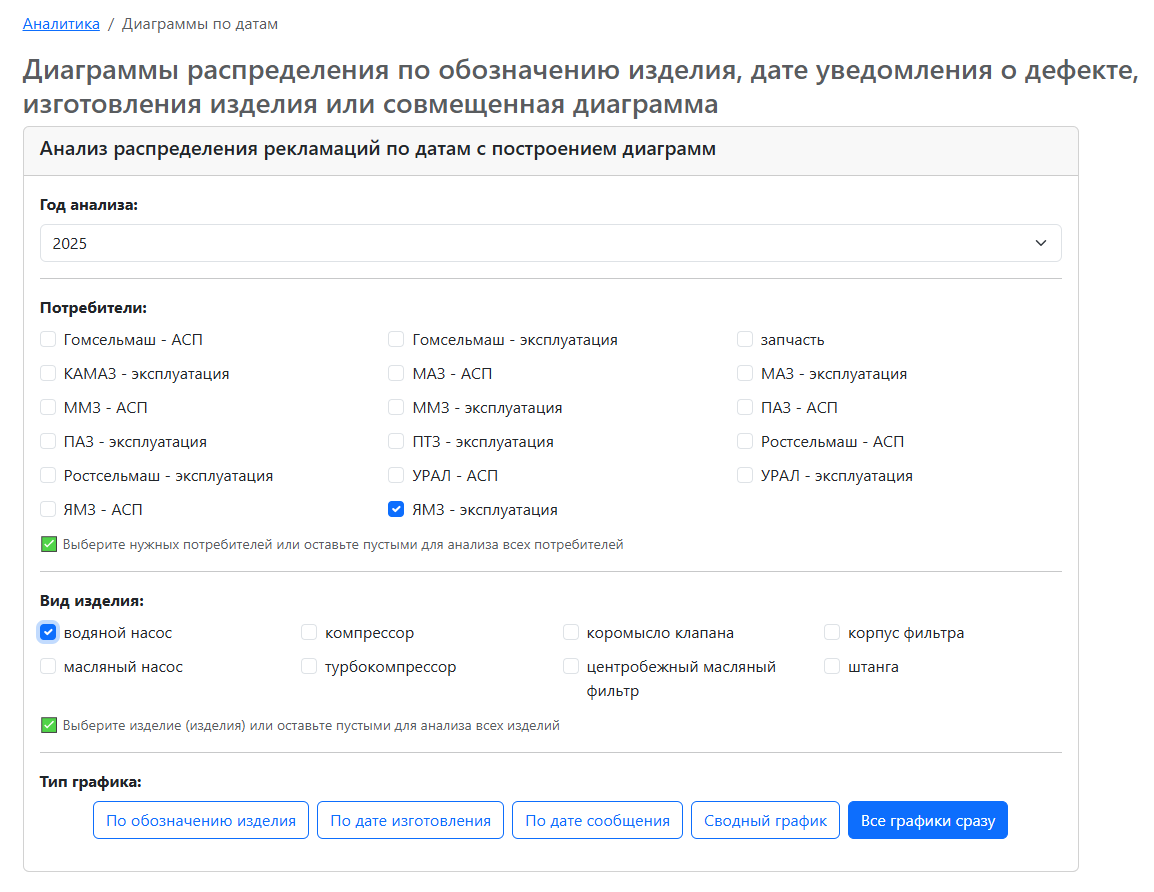
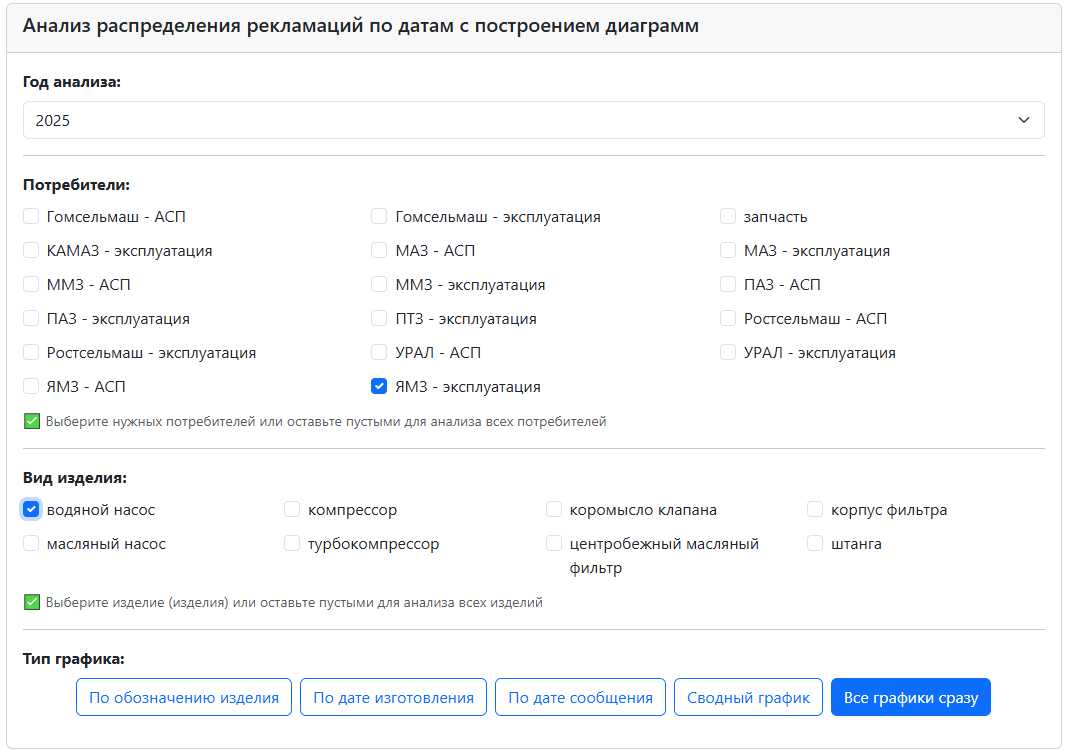
Изменение шрифтов

diff --git a/README.md b/README.md
@@ -46,6 +46,8 @@
 
 ## ✨ Возможности
 
+<small>
+
 ### 📋 Учёт и управление
 - Регистрация рекламаций с полным жизненным циклом
 - Акты исследования дефектных изделий
@@ -70,6 +72,8 @@
 - Статистика признанных/непризнанных дефектов
 - Отчёт по виновникам дефектов
 - Экспорт данных в Excel
+
+</small>
 
 ---
 
